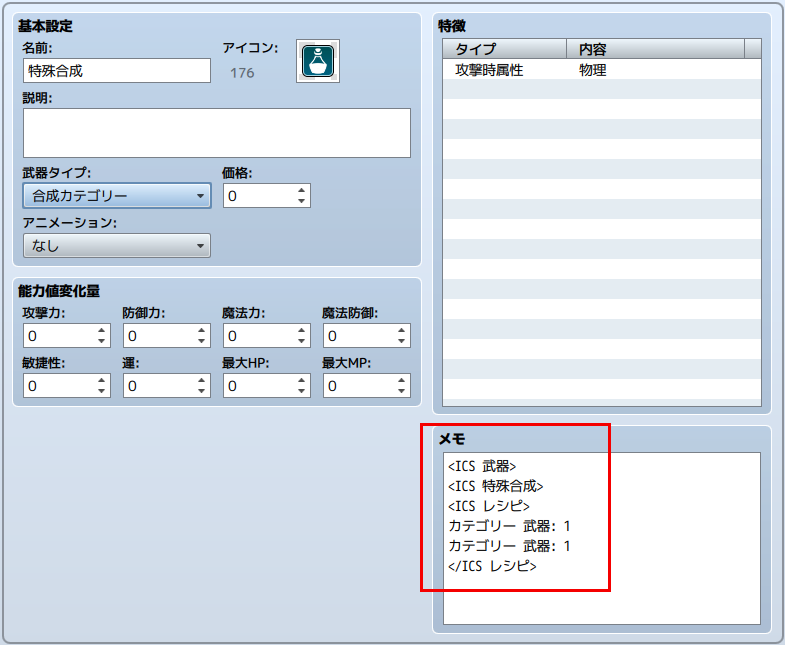
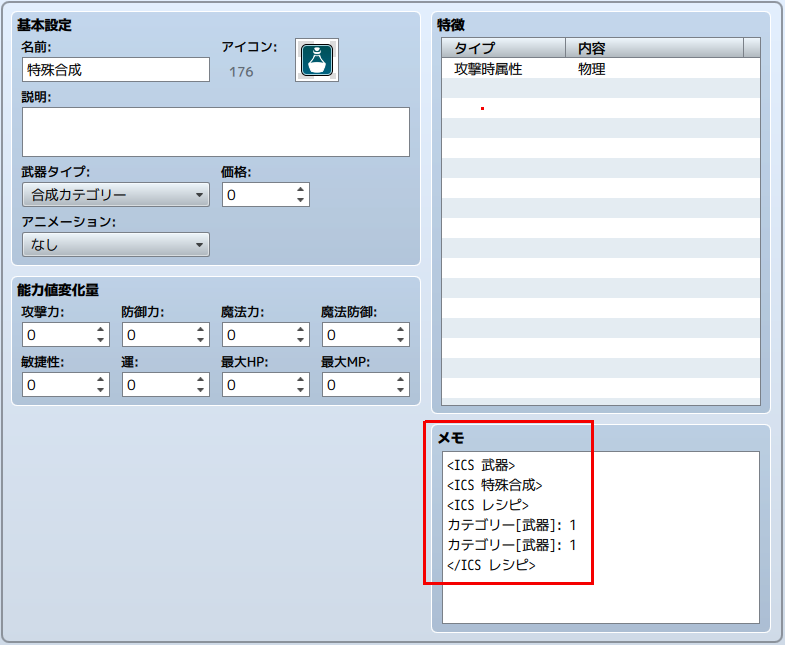
upload

diff --git a/FTKR_ItemCompositionSystem.js b/FTKR_ItemCompositionSystem.js
@@ -3,8 +3,8 @@
 // FTKR_ItemConpositionSystem.js
 // 作成者     : フトコロ
 // 作成日     : 2017/04/08
-// 最終更新日 : 2017/10/16
-// バージョン : v1.5.1
+// 最終更新日 : 2017/11/01
+// バージョン : v1.5.2
 //=============================================================================
 
 var Imported = Imported || {};
@@ -15,7 +15,7 @@ FTKR.ICS = FTKR.ICS || {};
 
 //=============================================================================
 /*:
- * @plugindesc v1.5.1 アイテム合成システム
+ * @plugindesc v1.5.2 アイテム合成システム
  * @author フトコロ
  *
  * @param --基本設定--
@@ -812,7 +812,7 @@ FTKR.ICS = FTKR.ICS || {};
  * アイテム名: y
  *    :アイテム名のアイテムを y 個使用します。
  * 
- * カテゴリー カテゴリー名: y
+ * カテゴリー[カテゴリー名]: y
  *    :'カテゴリー名'に属するアイテムを y 個使用します。(*1)
  * 
  * 難易度: x, y, z
@@ -971,6 +971,9 @@ FTKR.ICS = FTKR.ICS || {};
  *-----------------------------------------------------------------------------
  * 変更来歴
  *-----------------------------------------------------------------------------
+ * 
+ * v1.5.2 - 2017/11/01 : ヘルプ修正
+ *    1. レシピの素材にカテゴリーを設定する場合の説明が間違っていたため修正。
  * 
  * v1.5.1 - 2017/10/16 : 機能追加
  *    1. 合成画面を表示するメニューコマンドの設定方式をリスト方式に変更。

diff --git a/README.md b/README.md
@@ -122,7 +122,7 @@
 | [FTKR_ItemSubCommand](FTKR_ItemSubCommand.js) | [仮版](FTKR_ItemSubCommand.ja.md) | [v1.4.0](https://raw.githubusercontent.com/futokoro/RPGMaker/master/FTKR_ItemSubCommand.js) | 2017/09/24 | アイテムボックスにサブコマンドを追加するプラグイン |
 | [FTKR_ItemBoxCapacity](FTKR_ItemBoxCapacity.js) | [仮版](FTKR_ItemBoxCapacity.ja.md) | [v1.0.0](https://raw.githubusercontent.com/futokoro/RPGMaker/master/FTKR_ItemBoxCapacity.js) | 2017/06/09 | アイテムボックスに所持容量を追加するプラグイン |
 | [FTKR_ItemBoxCategory](FTKR_ItemBoxCategory.js) | [あり](FTKR_ItemBoxCategory.ja.md) | [v1.0.0](https://raw.githubusercontent.com/futokoro/RPGMaker/master/FTKR_ItemBoxCategory.js) | 2017/07/01 | アイテムボックスのカテゴリーを追加変更するプラグイン<br>FTKR_ItemCategoryFixedと組み合わせて使用できません |
-| [FTKR_ItemCompositionSystem](FTKR_ItemCompositionSystem.js) | [仮版](FTKR_ItemCompositionSystem.ja.md) | [v1.5.1](https://raw.githubusercontent.com/futokoro/RPGMaker/master/FTKR_ItemCompositionSystem.js) | 2017/10/16 | アイテム合成システム |
+| [FTKR_ItemCompositionSystem](FTKR_ItemCompositionSystem.js) | [仮版](FTKR_ItemCompositionSystem.ja.md) | [v1.5.2](https://raw.githubusercontent.com/futokoro/RPGMaker/master/FTKR_ItemCompositionSystem.js) | 2017/10/16 | アイテム合成システム |
 | [FTKR_ExEquipSlot](FTKR_ExEquipSlot.js) | なし | [v1.0.0](https://raw.githubusercontent.com/futokoro/RPGMaker/master/FTKR_ExEquipSlot.js) | 2017/06/30 | 同じ装備タイプの装備を２つ以上装備できるようにする |
 
 [目次に戻る](#目次)

diff --git a/FTKR_ItemCompositionSystem.ja.md b/FTKR_ItemCompositionSystem.ja.md
@@ -222,7 +222,7 @@ ICS_合成画面表示
 武器[x]: y
 防具[x]: y
 アイテム名: y
-カテゴリー カテゴリー名: y
+カテゴリー[カテゴリー名]: y
 ```
 * x - アイテムや武器等のID
 * y - 必要な個数
@@ -558,6 +558,7 @@ ICS_レシピ削除 アイテム 11 1
 
 | バージョン | 公開日 | 更新内容 |
 | --- | --- | --- |
+| [ver1.5.2](FTKR_ItemCompositionSystem.js) | 2017/11/01 | レシピの素材にカテゴリーを設定する場合のヘルプの説明が間違っていたため修正 |
 | [ver1.5.1](FTKR_ItemCompositionSystem.js) | 2017/10/16 | 合成画面を表示するメニューコマンドの設定方式をリスト方式に変更<br>メニュー画面に複数の合成コマンドを設定する機能を追加 |
 | ver1.5.0 | 2017/10/11 | 合成画面の表示内容を設定するプラグインパラメータの入力方式をリスト方式に変更<br>プラグインコマンドで合成画面を表示するときに、オプションでリスト番号を指定すると表示内容をリストの番号に合わせて変更する機能を追加<br>合成終了時に確認画面を表示する機能を追加 |
 | ver1.4.0 | 2017/10/07 | プラグインコマンドで背景画像を設定する機能を追加<br>特定のカテゴリーのアイテムだけ表示する合成コマンドを作成する機能を追加<br>合成コマンドの、素材選択時とレシピ選択時で変える機能を拡張し、素材選択時だけ、またはレシピ選択時だけ表示できる機能を追加 |
